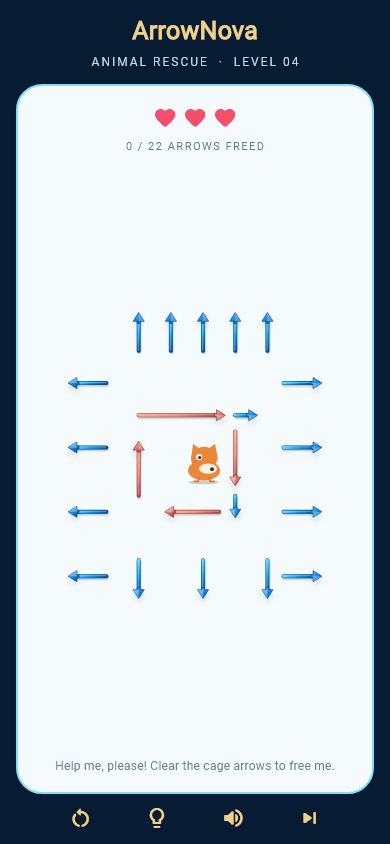
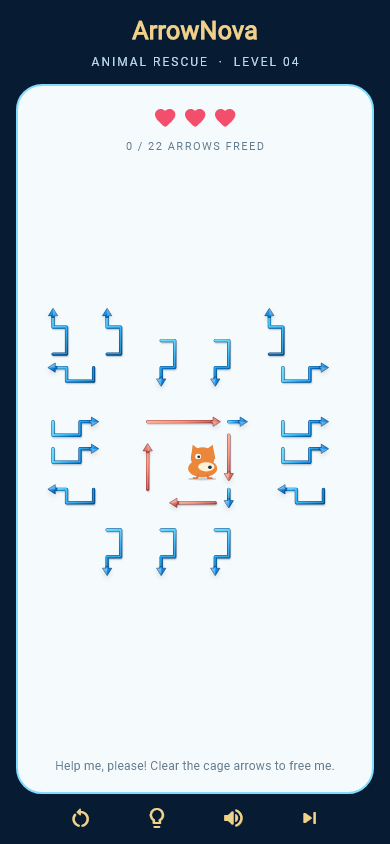
Match early Rescue difficulty to Classic circuits

diff --git a/mobile/lib/game/puzzle.dart b/mobile/lib/game/puzzle.dart
@@ -172,9 +172,9 @@ class LevelCatalog {
         ? EndlessCatalog.arrowCount(level)
         : arrowCount(level);
     if (rescue && level <= 10) {
-      // Keep the rescue animal visibly enclosed by a compact ring of arrows
-      // from the first mission. These are full puzzles, not tutorial boards.
-      const width = 20, height = 22;
+      // Start at Classic level-10 circuit difficulty, with the animal
+      // enclosed by bent arrows on every side from the first mission.
+      const width = 24, height = 24;
       final centerX = width ~/ 2, centerY = height ~/ 2;
       final cage = <List<Cell>>[
         [for (var x = centerX - 4; x <= centerX + 1; x++) Cell(x, centerY - 3)],
@@ -184,21 +184,43 @@ class LevelCatalog {
         [Cell(centerX + 2, centerY - 3), Cell(centerX + 3, centerY - 3)],
         [Cell(centerX + 2, centerY + 2), Cell(centerX + 2, centerY + 3)],
       ];
+      // This six-cell bent path is the same circuit motif used by Classic 10.
+      const circuit = [
+        Cell(0, 0),
+        Cell(0, 1),
+        Cell(1, 1),
+        Cell(2, 1),
+        Cell(2, 0),
+        Cell(3, 0),
+      ];
       final top = <List<Cell>>[
-        for (final x in [6, 10, 14, 8, 12])
-          [Cell(x, 4), Cell(x, 3), Cell(x, 2)],
+        for (final x in [5, 9, 13])
+          if (x == 9 || x == 13)
+            [for (final c in circuit) Cell(x + c.y, 3 + c.x)]
+          else
+            [for (final c in circuit) Cell(x + c.y, 1 + 3 - c.x)],
+        for (final x in [1, 17])
+          [for (final c in circuit) Cell(x + c.y, 1 + 3 - c.x)],
       ];
       final bottom = <List<Cell>>[
-        for (final x in [6, 10, 14, 8, 12])
-          [Cell(x, 17), Cell(x, 18), Cell(x, 19)],
+        for (final x in [5, 9, 13])
+          [for (final c in circuit) Cell(x + c.y, 17 + c.x)],
+        for (final x in [1, 17])
+          [for (final c in circuit) Cell(x + c.y, 17 + c.x)],
       ];
       final left = <List<Cell>>[
-        for (final y in [6, 10, 14, 18, 7, 12, 17])
-          [Cell(4, y), Cell(3, y), Cell(2, y)],
+        for (final y in [5, 9, 11, 14])
+          if (y == 9 || y == 11)
+            [for (final c in circuit) Cell(1 + c.x, y + c.y)]
+          else
+            [for (final c in circuit) Cell(1 + 3 - c.x, y + c.y)],
       ];
       final right = <List<Cell>>[
-        for (final y in [6, 10, 14, 18, 7, 12, 17])
-          [Cell(15, y), Cell(16, y), Cell(17, y)],
+        for (final y in [5, 9, 11, 14])
+          if (y == 14)
+            [for (final c in circuit) Cell(18 + 3 - c.x, y + c.y)]
+          else
+            [for (final c in circuit) Cell(18 + c.x, y + c.y)],
       ];
       final ring = [
         ...top.take(3),
@@ -207,8 +229,6 @@ class LevelCatalog {
         ...right.take(4),
         ...top.skip(3),
         ...bottom.skip(3),
-        ...left.skip(4),
-        ...right.skip(4),
       ];
       final allPaths = [
         ...cage,

diff --git a/mobile/tool/render_level_approval_screens_test.dart b/mobile/tool/render_level_approval_screens_test.dart
@@ -26,6 +26,8 @@ void main() {
     }
     await _capture(tester, 'classic-blocked-edges.png', 6, blockedDemo: true);
     for (var level = 1; level <= 10; level++) {
+      final puzzle = RescueCatalog.get(level);
+      expect(puzzle.solution().length, puzzle.arrows.length);
       await _capture(
         tester,
         'animal-rescue-${level.toString().padLeft(2, '0')}.png',
@@ -33,6 +35,16 @@ void main() {
         rescue: true,
       );
     }
+    final classicTen = LevelCatalog.get(10);
+    final rescueTwo = RescueCatalog.get(2);
+    expect(
+      rescueTwo.dependencyDepth,
+      greaterThanOrEqualTo(classicTen.dependencyDepth),
+    );
+    expect(
+      rescueTwo.arrows.where((arrow) => rescueTwo.canExit(arrow.id, {})).length,
+      lessThan((rescueTwo.arrows.length + 1) ~/ 2),
+    );
   });
 }
 
